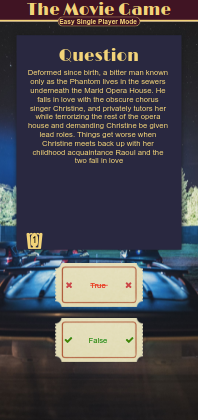
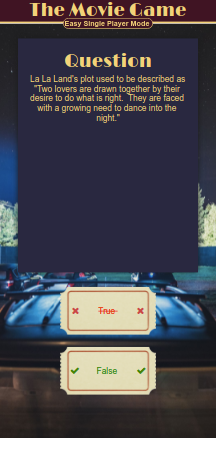
feat(lose game instructions): add new pictures

diff --git a/Components/HowToPlay/LoseGameInstruction.js b/Components/HowToPlay/LoseGameInstruction.js
@@ -6,7 +6,7 @@ import {
   useWindowDimensions,
   Platform,
 } from "react-native";
-import { Entypo } from "@expo/vector-icons";
+import { Entypo, MaterialCommunityIcons } from "@expo/vector-icons";
 import { useEffect, useRef } from "react";
 import loseGameAnimationWeb from "../../Images/gameOverAnimationWEb.png";
 import loseGameAnimationMobile from "../../Images/gameOverAnimationMobile.png";
@@ -17,8 +17,8 @@ export default function LoseGameInstruction() {
   const { width } = useWindowDimensions();
   const translation = useRef(
     new Animated.ValueXY({
-      x: Platform.OS === "web" ? (width < 630 ? 300: 350) :200,
-      y: Platform.OS === "web" ? 250:370,
+      x: Platform.OS === "web" ? (width < 800 ? 500 : 350) : 200,
+      y: Platform.OS === "web" ? (width < 800 ? 300 : 250) : 370,
     })
   ).current;
   const lifePointerCircle = useRef(new Animated.Value(1)).current;
@@ -33,31 +33,40 @@ export default function LoseGameInstruction() {
           duration: 1500,
           useNativeDriver: false,
         }),
-        Animated.parallel([        
+        Animated.parallel([
           Animated.timing(translation.x, {
-            toValue: Platform.OS === "web" ? 240 : 120,
+            toValue: Platform.OS === "web" ? 260 : 120,
             duration: 1000,
-            // delay: 500,
             useNativeDriver: false,
           }),
           Animated.timing(translation.y, {
-            toValue:
-              Platform.OS === "web" ? (width < 630 ? 200 : 220) : 280,
+            toValue: Platform.OS === "web" ? (width < 815 ? 200 : 180) : 280,
             duration: 1000,
-            // delay: 500,
-            useNativeDriver:false,
+
+            useNativeDriver: false,
           }),
         ]),
-        
         Animated.timing(backgroundFade, {
           toValue: 1,
-          duration: 500,
+          duration: 1500,
           useNativeDriver: false,
         }),
+
+        Animated.timing(translation.x, {
+          toValue: Platform.OS === "web" ? (width < 800 ? 500 : 350) : 200,
+          duration: 1,
+          useNativeDriver: false,
+        }),
+        Animated.timing(translation.y, {
+          toValue: Platform.OS === "web" ? (width < 800 ? 300 : 250) : 370,
+          duration: 1,
+          useNativeDriver: false,
+        }),
+
         Animated.timing(backgroundFade, {
           toValue: 0,
           duration: 250,
-          delay:2000,
+          delay: 1500,
           useNativeDriver: false,
         }),
       ])
@@ -88,21 +97,20 @@ export default function LoseGameInstruction() {
             width: "100%",
             height: "100%",
             aspectRatio: Platform.OS === "web" ? 1021 / 540 : 5 / 9,
-            opacity:backgroundFade,
+            opacity: backgroundFade,
           }}
         />
 
         <Animated.View
           style={{
-            
-              transform: [
-                  { translateX: translation.x },
-                  { translateY: translation.y },
-              ]   ,                 
-          
+            transform: [
+              { translateX: translation.x },
+              { translateY: translation.y },
+            ],
+
             opacity: backgroundFade.interpolate({
-              inputRange: [0,1],
-              outputRange:[1,0],
+              inputRange: [0, 1],
+              outputRange: [1, 0],
             }),
           }}
         >
@@ -113,17 +121,22 @@ export default function LoseGameInstruction() {
             transform: [
               {
                 translateX:
-                  Platform.OS === "web" ? (screenWidth < 800 ? 130 : 120) : 20,
+                  Platform.OS === "web" ? (screenWidth < 800 ? 140 : 130) : 30,
               },
               {
                 translateY:
-                  Platform.OS === "web" ? (screenWidth < 800 ? 115 : 100) : 200,
+                  Platform.OS === "web" ? (screenWidth < 800 ? 100 : 110) : 200,
               },
             ],
             opacity: lifePointerCircle,
           }}
         >
-          <Entypo name="circle" size={40} color="white" />
+          <MaterialCommunityIcons
+            style={styles.livesIcon}
+            name="popcorn"
+            size={20}
+            color="#F2D379"
+          />
         </Animated.View>
       </ImageBackground>
     </View>
